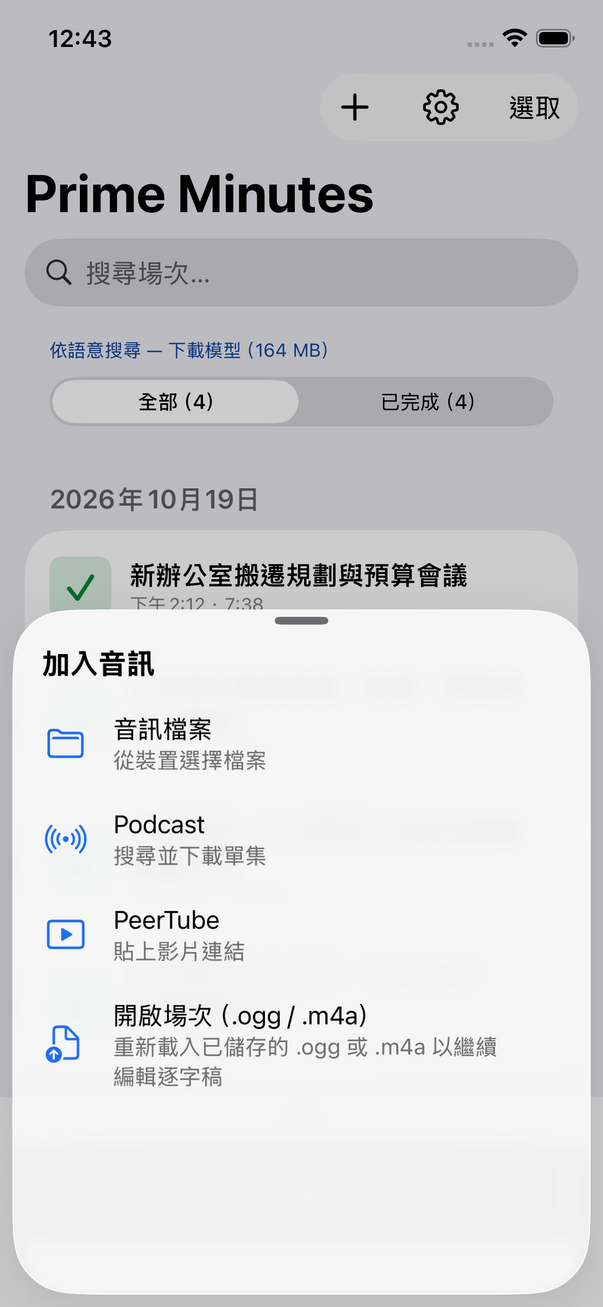
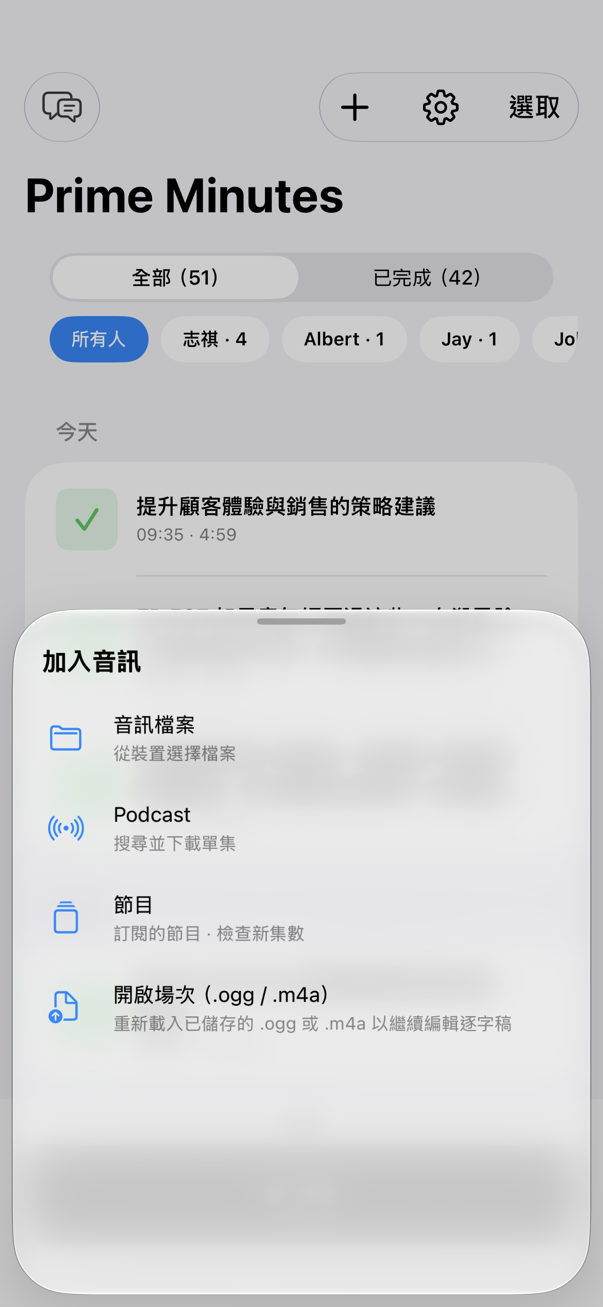
ios: remove PeerTube import; online-import notice, licenses screen, NOTICE
- PeerTube import is gone: PeerTube.swift, PeerTubeView, the Add-audio row, the build_app.sh
  entry, the strings in the three .lproj and the VOX_PEERTUBE probe. Online import is podcasts
  (and subscriptions) only, on both platforms.
- Migration: a queued download of a PeerTube video file (older version) fails for good with
  "PeerTube import is no longer supported" and can be deleted; imported sessions are untouched.
  A YouTube/PeerTube link opened in the app shows an explanation (VideoLinks + host test).
- First Podcast / Shows use shows a one-time personal-use notice.
- Settings > About > Open-source licenses (LicensesView) and NOTICE list the third-party
  components actually shipped (NOGGML build: no CrispASR/ggml/audio.cpp on iOS).
- README (responsibility, takedown via GitHub issues, licenses), USER_GUIDE, slides v2.55
  (import slide, add-source image) updated; guide 02-add reshot on the iPhone 17e.

Host tests (ios/tests/run.sh) PASS; iPhone 17e checks PASS.

diff --git a/ios/App/App.swift b/ios/App/App.swift
@@ -87,13 +87,20 @@ struct ContentView: View {
     @State private var picking = false
     @State private var showSettings = false
     @State private var showPodcast = false
-    @State private var showPeerTube = false
+    @State private var onlineAsk: (() -> Void)?
+    @State private var videoLink = false
+    @State private var showLicenses = false   // DEV: VOX_DIALOG=licenses
+    @AppStorage("online_import_notice_ack") private var onlineAck = false
     @State private var showSubs = false
     @State private var subsId: String?
     @State private var showAdd = false
     @State private var path: [Route] = []
     @AppStorage("language") private var language = "system"
     @AppStorage("theme") private var theme = "auto"
+    /// Podcast search / Shows: a one-time notice first (personal use; the right to download is the user's to have).
+    private func gateOnline(_ go: @escaping () -> Void) {
+        if onlineAck { go() } else { DispatchQueue.main.asyncAfter(deadline: .now() + 0.35) { onlineAsk = go } }   // after the Add sheet is gone
+    }
     /// A subscribed episode's item: its meeting when processed, else its queue row.
     private func openJob(_ id: UUID) {
         if let s = m.library.sessions.first(where: { $0.id == id }) { LibraryView.markSeen(s.id); path = [.session(s)] } else { path = [.job(id)] }
@@ -132,18 +139,26 @@ struct ContentView: View {
                 } else { o += "engine nil\n" }
                 o += "end " + state() + "\n" + (try? FileManager.default.contentsOfDirectory(atPath: Storage.modelsRoot.path))!.sorted().joined(separator: ",") + " nemo: " + ((try? FileManager.default.contentsOfDirectory(atPath: Storage.modelsRoot.appendingPathComponent("nemo").path)) ?? []).sorted().joined(separator: ",")
                 try? o.write(to: URL(fileURLWithPath: NSHomeDirectory() + "/Documents/asrcheck.txt"), atomically: true, encoding: .utf8)
-            } }; if Dev.env["VOX_EMBED_DL"] != nil, !EmbedHost.ready { m.downloads.downloadEmbed() }; if let sn = Dev.env["VOX_SNAP"] { Snap.schedule(sn) }; if Dev.env["VOX_EMBEDDIAG"] != nil { Task.detached { var o = ""; if let d = try? Data(contentsOf: URL(fileURLWithPath: NSHomeDirectory() + "/Documents/embed_ref.json")), let refs = try? JSONSerialization.jsonObject(with: d) as? [[String: Any]] { for r in refs { let text = r["text"] as? String ?? "", ref = (r["vec"] as? [Double] ?? []).map(Float.init), nt = r["tokens"] as? Int ?? 0; let t0 = Date(); let v = EmbedHost.use(threads: 2) { $0.embed(text) } ?? nil; let ms = Int(Date().timeIntervalSince(t0) * 1000); let tk = EmbedHost.use(threads: 2) { $0.tokens(text) } ?? -1; if let v = v, v.count == ref.count { var dd: Float = 0, na: Float = 0, nb: Float = 0; for i in v.indices { dd += v[i] * ref[i]; na += v[i] * v[i]; nb += ref[i] * ref[i] }; o += String(format: "cos %.4f |v| %.3f tokens %d/%d %d ms  %@\n", dd / (na.squareRoot() * nb.squareRoot()), na.squareRoot(), tk + 2, nt, ms, String(text.prefix(40))) } else { o += "embed nil for \(text.prefix(30))\n" } } } else { o += "no embed_ref.json\n" }; let ss = await MainActor.run { m.library.sessions }; for q in ["gold", "opening hours", "颱風季節的浪", "抓交替"] { if let qv = EmbedHost.use(threads: 2, { $0.embed(EmbedPrompts.query(q)) }) ?? nil { o += "Q \(q):"; for h in LibrarySearch.dense(Array(ss.prefix(1)), qv: qv, maxPassages: 6) { for p in h.passages { o += String(format: " [%@ %.3f @%.0f]", "\(p.kind)", p.score, p.timeSec) } }; o += "\n" } }; try? o.write(to: URL(fileURLWithPath: NSHomeDirectory() + "/Documents/embeddiag.txt"), atomically: true, encoding: .utf8) } }; if let y = Dev.env["VOX_YIELD"] { Task { try? await Task.sleep(nanoseconds: UInt64(Int(y) ?? 30) * 1_000_000_000); let before = m.runner.activeJob != nil; m.runner.yieldToSystem(); try? await Task.sleep(nanoseconds: 20_000_000_000); try? "active before=\(before) queued=\(await m.queue.count) parked=\(m.runner.parked.count) active now=\(m.runner.activeJob != nil) partial=\((await m.queue.all).first.map { Checkpoint.loadPartial($0.id) != nil } ?? false)".write(to: URL(fileURLWithPath: NSHomeDirectory() + "/Documents/yield.txt"), atomically: true, encoding: .utf8) } }; if let st = Dev.env["VOX_STOP"] { Task { try? await Task.sleep(nanoseconds: UInt64(Int(st) ?? 30) * 1_000_000_000); let before = m.runner.activeJob != nil; m.runner.stopProcessing(); try? await Task.sleep(nanoseconds: 20_000_000_000); try? "active before=\(before) parked=\(m.runner.parked.count) active now=\(m.runner.activeJob != nil) status=\(m.screen.status)".write(to: URL(fileURLWithPath: NSHomeDirectory() + "/Documents/stop.txt"), atomically: true, encoding: .utf8) } }; if Dev.env["VOX_STATUSLOG"] != nil { Task { var lastN = -1; var peakMB = 0.0; while true { NSLog("VOXSTATUS %@", m.screen.status); do { var i = task_vm_info_data_t(); var c = mach_msg_type_number_t(MemoryLayout<task_vm_info_data_t>.size / MemoryLayout<integer_t>.size); _ = withUnsafeMutablePointer(to: &i) { $0.withMemoryRebound(to: integer_t.self, capacity: Int(c)) { task_info(mach_task_self_, task_flavor_t(TASK_VM_INFO), $0, &c) } }; peakMB = max(peakMB, Double(i.phys_footprint) / 1048576); NSLog("VOXRSS %.0f peak %.0f MB kpeak %.0f resident %.0f rpeak %.0f MB", Double(i.phys_footprint) / 1048576, peakMB, Double(i.ledger_phys_footprint_peak) / 1048576, Double(i.resident_size) / 1048576, Double(i.resident_size_peak) / 1048576) }; if m.screen.lines.count != lastN { lastN = m.screen.lines.count; for l in m.screen.lines { NSLog("VOXLINE %d %.1f-%.1f %@", l.speaker, l.start, l.end, l.text) } }; try? m.screen.status.write(to: URL(fileURLWithPath: NSHomeDirectory() + "/Documents/status.txt"), atomically: true, encoding: .utf8); try? await Task.sleep(nanoseconds: 2_000_000_000) } } }; if Dev.env["VOX_ROUNDTRIP"] != nil { Task { if let s = await m.library.all().first(where: { $0.audio != nil }), let u = await SessionFile.export(s) { let r = SessionFile.read(u); m.screen.status = "rt \((try? FileManager.default.attributesOfItem(atPath: u.path)[.size]) ?? 0)B lines \(r?.utterances?.count ?? -1)/\(s.lines.count) title \(r?.title == s.title)"; m.imports.importAudio(u) } else { m.screen.status = "rt: export failed" }; try? m.screen.status.write(to: URL(fileURLWithPath: NSHomeDirectory() + "/Documents/rt.txt"), atomically: true, encoding: .utf8) } }; if Dev.env["VOX_ADD"] != nil { showAdd = true }; if Dev.env["VOX_DIALOG"] == "podcast" { showPodcast = true }; if first { DevJobs.run(m) }; m.runner.drain(); if let fs = Dev.env["VOX_IMPORT"] { for f in fs.split(separator: ",").map(String.init) { m.imports.importAudio(URL(fileURLWithPath: f.hasPrefix("/") ? f : NSHomeDirectory() + "/" + f)) } }; if let q = Dev.env["VOX_PODCAST"] { Task { if let sr = try? await Podcast.search(q).first, let ep = try? await Podcast.episodes(sr.feedUrl, limit: 3).last { m.imports.addEpisode(ep) } else { m.screen.status = "podcast: no result" } } }; if let u = Dev.env["VOX_PEERTUBE"] { Task { do { let v = try await PeerTube.resolve(u); StatusLog.add("peertube \(v.title) \(v.seconds) s \(v.fileUrl)"); m.imports.addEpisode(Episode(title: v.title, audioUrl: v.fileUrl, published: "", duration: "")) } catch { StatusLog.add("peertube failed: \(error.localizedDescription)"); m.screen.status = "peertube: \(error.localizedDescription)" } } } }
-            .sheet(isPresented: $showAdd) { AddSourceSheet(onFile: { picking = true }, onPodcast: { showPodcast = true }, onPeerTube: { showPeerTube = true }, onShows: { subsId = nil; showSubs = true }, onSession: { picking = true }) }
+            } }; if Dev.env["VOX_EMBED_DL"] != nil, !EmbedHost.ready { m.downloads.downloadEmbed() }; if let sn = Dev.env["VOX_SNAP"] { Snap.schedule(sn) }; if Dev.env["VOX_EMBEDDIAG"] != nil { Task.detached { var o = ""; if let d = try? Data(contentsOf: URL(fileURLWithPath: NSHomeDirectory() + "/Documents/embed_ref.json")), let refs = try? JSONSerialization.jsonObject(with: d) as? [[String: Any]] { for r in refs { let text = r["text"] as? String ?? "", ref = (r["vec"] as? [Double] ?? []).map(Float.init), nt = r["tokens"] as? Int ?? 0; let t0 = Date(); let v = EmbedHost.use(threads: 2) { $0.embed(text) } ?? nil; let ms = Int(Date().timeIntervalSince(t0) * 1000); let tk = EmbedHost.use(threads: 2) { $0.tokens(text) } ?? -1; if let v = v, v.count == ref.count { var dd: Float = 0, na: Float = 0, nb: Float = 0; for i in v.indices { dd += v[i] * ref[i]; na += v[i] * v[i]; nb += ref[i] * ref[i] }; o += String(format: "cos %.4f |v| %.3f tokens %d/%d %d ms  %@\n", dd / (na.squareRoot() * nb.squareRoot()), na.squareRoot(), tk + 2, nt, ms, String(text.prefix(40))) } else { o += "embed nil for \(text.prefix(30))\n" } } } else { o += "no embed_ref.json\n" }; let ss = await MainActor.run { m.library.sessions }; for q in ["gold", "opening hours", "颱風季節的浪", "抓交替"] { if let qv = EmbedHost.use(threads: 2, { $0.embed(EmbedPrompts.query(q)) }) ?? nil { o += "Q \(q):"; for h in LibrarySearch.dense(Array(ss.prefix(1)), qv: qv, maxPassages: 6) { for p in h.passages { o += String(format: " [%@ %.3f @%.0f]", "\(p.kind)", p.score, p.timeSec) } }; o += "\n" } }; try? o.write(to: URL(fileURLWithPath: NSHomeDirectory() + "/Documents/embeddiag.txt"), atomically: true, encoding: .utf8) } }; if let y = Dev.env["VOX_YIELD"] { Task { try? await Task.sleep(nanoseconds: UInt64(Int(y) ?? 30) * 1_000_000_000); let before = m.runner.activeJob != nil; m.runner.yieldToSystem(); try? await Task.sleep(nanoseconds: 20_000_000_000); try? "active before=\(before) queued=\(await m.queue.count) parked=\(m.runner.parked.count) active now=\(m.runner.activeJob != nil) partial=\((await m.queue.all).first.map { Checkpoint.loadPartial($0.id) != nil } ?? false)".write(to: URL(fileURLWithPath: NSHomeDirectory() + "/Documents/yield.txt"), atomically: true, encoding: .utf8) } }; if let st = Dev.env["VOX_STOP"] { Task { try? await Task.sleep(nanoseconds: UInt64(Int(st) ?? 30) * 1_000_000_000); let before = m.runner.activeJob != nil; m.runner.stopProcessing(); try? await Task.sleep(nanoseconds: 20_000_000_000); try? "active before=\(before) parked=\(m.runner.parked.count) active now=\(m.runner.activeJob != nil) status=\(m.screen.status)".write(to: URL(fileURLWithPath: NSHomeDirectory() + "/Documents/stop.txt"), atomically: true, encoding: .utf8) } }; if Dev.env["VOX_STATUSLOG"] != nil { Task { var lastN = -1; var peakMB = 0.0; while true { NSLog("VOXSTATUS %@", m.screen.status); do { var i = task_vm_info_data_t(); var c = mach_msg_type_number_t(MemoryLayout<task_vm_info_data_t>.size / MemoryLayout<integer_t>.size); _ = withUnsafeMutablePointer(to: &i) { $0.withMemoryRebound(to: integer_t.self, capacity: Int(c)) { task_info(mach_task_self_, task_flavor_t(TASK_VM_INFO), $0, &c) } }; peakMB = max(peakMB, Double(i.phys_footprint) / 1048576); NSLog("VOXRSS %.0f peak %.0f MB kpeak %.0f resident %.0f rpeak %.0f MB", Double(i.phys_footprint) / 1048576, peakMB, Double(i.ledger_phys_footprint_peak) / 1048576, Double(i.resident_size) / 1048576, Double(i.resident_size_peak) / 1048576) }; if m.screen.lines.count != lastN { lastN = m.screen.lines.count; for l in m.screen.lines { NSLog("VOXLINE %d %.1f-%.1f %@", l.speaker, l.start, l.end, l.text) } }; try? m.screen.status.write(to: URL(fileURLWithPath: NSHomeDirectory() + "/Documents/status.txt"), atomically: true, encoding: .utf8); try? await Task.sleep(nanoseconds: 2_000_000_000) } } }; if Dev.env["VOX_ROUNDTRIP"] != nil { Task { if let s = await m.library.all().first(where: { $0.audio != nil }), let u = await SessionFile.export(s) { let r = SessionFile.read(u); m.screen.status = "rt \((try? FileManager.default.attributesOfItem(atPath: u.path)[.size]) ?? 0)B lines \(r?.utterances?.count ?? -1)/\(s.lines.count) title \(r?.title == s.title)"; m.imports.importAudio(u) } else { m.screen.status = "rt: export failed" }; try? m.screen.status.write(to: URL(fileURLWithPath: NSHomeDirectory() + "/Documents/rt.txt"), atomically: true, encoding: .utf8) } }; if Dev.env["VOX_ADD"] != nil { showAdd = true }; if Dev.env["VOX_DIALOG"] == "podcast" { showPodcast = true }; if Dev.env["VOX_DIALOG"] == "podcast_gated" { gateOnline { showPodcast = true } }; if Dev.env["VOX_DIALOG"] == "licenses" { showLicenses = true }; if let t = Dev.env["VOX_DROP_TITLE"] { Task { for j in await m.runner.queue.all where j.title == t { m.imports.remove(j) } } }; if first { DevJobs.run(m) }; m.runner.drain(); if let fs = Dev.env["VOX_IMPORT"] { for f in fs.split(separator: ",").map(String.init) { m.imports.importAudio(URL(fileURLWithPath: f.hasPrefix("/") ? f : NSHomeDirectory() + "/" + f)) } }; if let q = Dev.env["VOX_PODCAST"] { Task { if let sr = try? await Podcast.search(q).first, let ep = try? await Podcast.episodes(sr.feedUrl, limit: 3).last { m.imports.addEpisode(ep) } else { m.screen.status = "podcast: no result" } } }; if let u = Dev.env["VOX_LEGACY_PEERTUBE"] { m.imports.addEpisode(Episode(title: "PeerTube (legacy)", audioUrl: u, published: "", duration: "")) }; if let u = Dev.env["VOX_VIDEOLINK"], VideoLinks.isVideoLink(u) { videoLink = true } }
+            .sheet(isPresented: $showAdd) { AddSourceSheet(onFile: { picking = true }, onPodcast: { gateOnline { showPodcast = true } }, onShows: { gateOnline { subsId = nil; showSubs = true } }, onSession: { picking = true }) }
+            .sheet(isPresented: $showLicenses) { NavigationStack { LicensesView() } }
             .sheet(isPresented: $showSubs) { SubscriptionsView(initialId: subsId, onOpen: { id in showSubs = false; openJob(id) }) }
             .fullScreenCover(isPresented: Binding(get: { m.capture.recording }, set: { _ in })) { CaptureView(m: m) }
-            .sheet(isPresented: $showPeerTube) { PeerTubeView { ep in m.downloads.withModels { m.imports.addEpisode(ep) } } }
             .sheet(isPresented: $showPodcast) { PodcastView(pick: { ep in m.downloads.withModels { m.imports.addEpisode(ep) } }, openShow: { id in showPodcast = false; subsId = id; Task { try? await Task.sleep(nanoseconds: 400_000_000); showSubs = true } }) }
             .onAppear { SubDev.run(m) { id in subsId = id; showSubs = true } }
             .sheet(isPresented: $showSettings) { SettingsView(m: m, language: $language, theme: $theme) { s, t in
                 // The People screen opens a meeting at the person's first line: Settings closes, the meeting opens.
                 showSettings = false; LibraryView.markSeen(s.id); m.openAt = (s.id, t); path = [.session(s)]
             } }
-            .onOpenURL { u in m.downloads.withModels { m.imports.importAudio(u) } }
+            // A YouTube / PeerTube link is no longer imported (removed in 0.55): explained, never fetched.
+            .onOpenURL { u in if !u.isFileURL && VideoLinks.isVideoLink(u.absoluteString) { videoLink = true } else { m.downloads.withModels { m.imports.importAudio(u) } } }
+            .alert(L("online_notice_title"), isPresented: Binding(get: { onlineAsk != nil }, set: { if !$0 { onlineAsk = nil } })) {
+                Button(L("online_notice_ok")) { onlineAck = true; let go = onlineAsk; onlineAsk = nil
+                    // After the alert is gone: a sheet presented while it dismisses is dropped.
+                    DispatchQueue.main.asyncAfter(deadline: .now() + 0.35) { go?() } }
+                Button(L("cancel"), role: .cancel) { onlineAsk = nil }
+            } message: { Text(L("online_notice_body")) }
+            .alert(L("link_unsupported_title"), isPresented: $videoLink) { Button(L("online_notice_ok")) {} } message: { Text(L("link_unsupported_body")) }
             .fileImporter(isPresented: $picking, allowedContentTypes: [.audio, .mpeg4Audio]) { if case .success(let u) = $0 { m.downloads.withModels { m.imports.importAudio(u) } } }
             .modifier(DownloadConsent(downloads: m.downloads))
         }

diff --git a/ios/App/Licenses.swift b/ios/App/Licenses.swift
@@ -1,0 +1,44 @@
+import SwiftUI
+
+/// The third-party components inside the iOS app, with their licenses: Settings › About › Open-source licenses.
+/// Kept in step with NOTICE at the repository root (its iOS section): a dependency added or removed in
+/// ios/native, the model cards or the speaker cards changes both.
+enum OpenSourceLicenses {
+    struct Component: Hashable { let name: String; let license: String; let url: String }
+    struct Group: Hashable { let title: String; let items: [Component] }
+    static let groups: [Group] = [
+        Group(title: "Speech, speakers and AI notes (native)", items: [
+            Component(name: "nemo-x-asr-diarizer", license: "Apache-2.0", url: "https://github.com/vieenrose/nemo-x-asr-diarizer.cpp"),
+            Component(name: "LiteRT", license: "Apache-2.0", url: "https://github.com/google-ai-edge/LiteRT"),
+            Component(name: "LiteRT-LM (mobile fused attention fork)", license: "Apache-2.0", url: "https://github.com/vieenrose/LiteRT-LM"),
+            Component(name: "SentencePiece", license: "Apache-2.0", url: "https://github.com/google/sentencepiece"),
+        ]),
+        Group(title: "Models and data (downloaded or bundled)", items: [
+            Component(name: "X-ASR zh-en speech model", license: "Apache-2.0", url: "https://huggingface.co/Luigi/primeminutes-nemo-litert"),
+            Component(name: "Nemotron-3 Diarization model", license: "OpenMDW-1.1", url: "https://huggingface.co/Luigi/primeminutes-nemo-litert"),
+            Component(name: "Gemma-4 E2B / E4B meeting models", license: "Apache-2.0", url: "https://huggingface.co/Luigi/gemma-4-E4B-meeting-agent-zh-LiteRT"),
+            Component(name: "EmbeddingGemma 2 270M", license: "Gemma Terms of Use", url: "https://huggingface.co/Luigi/primeminutes-embed-litert"),
+            Component(name: "CAM++ zh-en (3D-Speaker)", license: "Apache-2.0", url: "https://huggingface.co/Luigi/primeminutes-speaker-litert"),
+            Component(name: "OpenCC dictionaries", license: "Apache-2.0", url: "https://github.com/BYVoid/OpenCC"),
+        ]),
+    ]
+}
+
+struct LicensesView: View {
+    @Environment(\.openURL) private var openURL
+    var body: some View {
+        List {
+            ForEach(OpenSourceLicenses.groups, id: \.self) { g in
+                Section(g.title) {
+                    ForEach(g.items, id: \.self) { c in
+                        Button { if let u = URL(string: c.url) { openURL(u) } } label: {
+                            HStack { Text(c.name).foregroundStyle(.primary); Spacer(); Text(c.license).font(.footnote).foregroundStyle(.secondary) }
+                        }
+                    }
+                }
+            }
+            Section { Text("Prime Minutes · GPL-3.0-or-later").font(.footnote).foregroundStyle(.secondary) }
+        }
+        .navigationTitle(L("about_licenses"))
+    }
+}

diff --git a/slides/PrimeMinutes-zh-TW.html b/slides/PrimeMinutes-zh-TW.html
@@ -110,7 +110,7 @@ table.t.rowlab tr:nth-child(even) td:first-child { background:#e8eef4; }
     </div>
   </div>
   <p style="margin-top:14px; color:#93a1af; font-size:.8em">標誌：墨色的紀錄頁，一條綠色關鍵線釘住整場的重點</p>
-  <p style="margin-top:6px; color:#93a1af; font-size:.8em">簡報 v2.54 · Android v0.53.18 · iOS 0.53.1 build 13 · 版次 2026-10-29</p>
+  <p style="margin-top:6px; color:#93a1af; font-size:.8em">簡報 v2.55 · Android v0.53.18 · iOS 0.53.1 build 13 · 版次 2026-10-29</p>
 </section>
 
 <!-- 2 問題 -->
@@ -224,12 +224,13 @@ table.t.rowlab tr:nth-child(even) td:first-child { background:#e8eef4; }
 
 <!-- 10 匯入 -->
 <section class="slide">
-  <div class="kicker">不只錄音</div><h2>匯入音訊檔 · Podcast · YouTube · PeerTube</h2>
+  <div class="kicker">不只錄音</div><h2>匯入音訊檔 · Podcast</h2>
   <div class="cols">
-    <div class="col"><div class="shot"><img src="img/07-add-source.png"></div><div class="cap">首頁「＋」：檔案 / Podcast / 影音連結</div></div>
+    <div class="col"><div class="shot"><img src="img/07-add-source.png"></div><div class="cap">首頁「＋」：檔案 / Podcast / 節目</div></div>
     <div class="col"><div class="shot"><img src="img/08-podcast.png"></div><div class="cap">Podcast 單集匯入後：邊轉錄邊出逐字稿，語者即時分開</div></div>
     <div class="col"><ul class="big" style="font-size:.9em;gap:.5em">
-      <li>手機裡的音訊檔（mp3、wav、m4a……）直接匯入；YouTube、PeerTube 貼上連結就行。</li>
+      <li>手機裡的音訊檔（mp3、wav、m4a……）直接匯入；Podcast 搜尋節目、挑一集就好，也能訂閱。</li>
+      <li>線上內容僅供個人使用，請先確認你有權下載和轉錄。</li>
       <li>匯入的內容跟自己錄的一樣：逐字稿、筆記、摘要、搜尋、提問<b>全部都有</b>。</li>
       <li>下載可以<b>暫停再繼續</b>，網路斷了也不會白費。</li>
     </ul></div>
@@ -337,7 +338,7 @@ table.t.rowlab tr:nth-child(even) td:first-child { background:#e8eef4; }
     <span class="pill">iOS TestFlight 公開測試</span>
     <span class="pill">github.com/vieenrose/PrimeMinutes</span>
   </div>
-  <p style="margin-top:14px; color:#93a1af; font-size:.8em">目前 Android v0.53.18 · iOS 0.53.1 TestFlight build 13 · 簡報 v2.54</p>
+  <p style="margin-top:14px; color:#93a1af; font-size:.8em">目前 Android v0.53.18 · iOS 0.53.1 TestFlight build 13 · 簡報 v2.55</p>
   <p style="margin-top:6px; color:#93a1af; font-size:.8em">小提醒：開會時把手機放桌子中央、靠近講話的人，分人分得最準；答案都附出處，重要的事點回原話確認一下。</p>
   <p class="lede" style="margin-top:26px">謝謝！示範與 Q&amp;A 時間。</p>
 </section>

diff --git a/ios/App/VideoLinks.swift b/ios/App/VideoLinks.swift
@@ -1,0 +1,30 @@
+import Foundation
+
+/// YouTube and PeerTube links (Android online/VideoLinks). Their import was removed (0.55): a link that reaches the
+/// app is recognised only to explain that it is not imported, never fetched.
+enum VideoLinks {
+    /// True when `text` holds a YouTube link, or a PeerTube video page (`/w/<id>`, `/videos/watch/<id>`, `/videos/embed/<id>`).
+    static func isVideoLink(_ text: String?) -> Bool {
+        guard let text, !text.isEmpty else { return false }
+        return text.split(whereSeparator: { $0.isWhitespace }).contains { classify(String($0)) }
+    }
+
+    private static func classify(_ raw: String) -> Bool {
+        var t = raw.trimmingCharacters(in: CharacterSet(charactersIn: ".,)\"'"))
+        if !t.contains("://") { t = "https://" + t }
+        guard let u = URL(string: t), let scheme = u.scheme, ["http", "https"].contains(scheme), let host = u.host?.lowercased() else { return false }
+        if host == "youtu.be" || host == "youtube.com" || host.hasSuffix(".youtube.com") || host == "youtube-nocookie.com" || host.hasSuffix(".youtube-nocookie.com") { return true }
+        let parts = u.path.split(separator: "/").map(String.init)
+        guard let i = parts.firstIndex(where: { $0 == "w" || $0 == "watch" || $0 == "embed" }), i + 1 < parts.count,
+              i == 0 || parts[i - 1] == "videos" else { return false }
+        return parts[i + 1].range(of: "^[A-Za-z0-9-]{8,40}$", options: .regularExpression) != nil
+    }
+
+    /// A queued download from an older version that came from PeerTube: its URL is a PeerTube instance's video file
+    /// (`/static/web-videos/`, `/static/webseed/`, `/static/streaming-playlists/`, `/download/videos/`). Podcast
+    /// enclosures do not use these paths. Such an item fails with an explanation instead of downloading.
+    static func isPeerTubeFile(_ url: String) -> Bool {
+        guard let p = URL(string: url)?.path else { return false }
+        return ["/static/web-videos/", "/static/webseed/", "/static/streaming-playlists/", "/download/videos/", "/download/web-videos/"].contains { p.hasPrefix($0) }
+    }
+}

diff --git a/ios/App/PodcastView.swift b/ios/App/PodcastView.swift
@@ -82,40 +82,3 @@ struct PodcastView: View {
         Task { defer { busy = false }; do { episodes = try await Podcast.episodes(s.feedUrl) } catch { self.error = L("status_error", error.localizedDescription) } }
     }
 }
-
-/// A PeerTube video link (any instance): resolved to its smallest file, then queued like a podcast episode.
-struct PeerTubeView: View {
-    let pick: (Episode) -> Void
-    @Environment(\.dismiss) private var dismiss
-    @State private var link = ""
-    @State private var busy = false
-    @State private var error: String?
-    var body: some View {
-        NavigationStack {
-            Form {
-                TextField(L("source_peertube_desc"), text: $link).keyboardType(.URL).textInputAutocapitalization(.never).autocorrectionDisabled()
-                    .textContentType(.URL).submitLabel(.go)   // the key shows Go and offers the user's saved links
-                    .onSubmit { go() }
-                if let error { Text(error).foregroundStyle(.red) }
-                if busy { HStack(spacing: 8) { ProgressView(); Text(L("dl_searching")).font(.footnote).foregroundStyle(.secondary) } }
-            }
-            .navigationTitle(L("source_peertube"))
-            .toolbar {
-                ToolbarItem(placement: .confirmationAction) { Button(L("peertube_add")) { go() }.disabled(busy || link.trimmingCharacters(in: .whitespaces).isEmpty) }
-                ToolbarItem(placement: .cancellationAction) { Button(L("done")) { dismiss() } }
-            }
-        }
-    }
-    private func go() {
-        guard !busy else { return }
-        busy = true; error = nil
-        Task {
-            defer { busy = false }
-            do {
-                let v = try await PeerTube.resolve(link)
-                pick(Episode(title: v.title, audioUrl: v.fileUrl, published: "", duration: Podcast.formatDuration(String(v.seconds))))
-                dismiss()
-            } catch { self.error = error.localizedDescription }
-        }
-    }
-}

diff --git a/ios/tests/VideoLinksTests.swift b/ios/tests/VideoLinksTests.swift
@@ -1,0 +1,18 @@
+import Foundation
+
+// ios/tests/run.sh: VideoLinks (YouTube / PeerTube links are recognised, never imported).
+@main struct VideoLinksTests {
+    static func check(_ c: Bool, _ m: String) { if !c { print("FAIL: \(m)"); exit(1) } }
+    static func main() {
+        check(VideoLinks.isVideoLink("https://www.youtube.com/watch?v=jNQXAC9IVRw"), "youtube watch")
+        check(VideoLinks.isVideoLink("see https://youtu.be/jNQXAC9IVRw"), "youtu.be in text")
+        check(VideoLinks.isVideoLink("https://framatube.org/w/9c9de5e8-0a1e-484a-b099-e80766180a6d"), "peertube /w/")
+        check(VideoLinks.isVideoLink("https://peertube.example/videos/watch/9c9de5e8-0a1e-484a"), "peertube /videos/watch/")
+        check(!VideoLinks.isVideoLink(nil) && !VideoLinks.isVideoLink(""), "empty")
+        check(!VideoLinks.isVideoLink("https://feeds.example.com/podcast.xml"), "feed")
+        check(!VideoLinks.isVideoLink("https://example.com/w/x"), "short id")
+        check(VideoLinks.isPeerTubeFile("https://framatube.org/static/web-videos/abc-240.mp4"), "peertube file")
+        check(!VideoLinks.isPeerTubeFile("https://cdn.example.com/podcast/ep1.mp3"), "podcast file")
+        print("VideoLinks: OK")
+    }
+}

diff --git a/ios/App/LibraryView.swift b/ios/App/LibraryView.swift
@@ -224,11 +224,10 @@ struct LibraryView: View {
     }
 }
 
-/// "Add audio" bottom sheet (Android AddSourceSheet, without the YouTube row: not offered on iOS).
+/// "Add audio" bottom sheet (Android AddSourceSheet: file, podcast, shows, session).
 struct AddSourceSheet: View {
     let onFile: () -> Void
     let onPodcast: () -> Void
-    let onPeerTube: () -> Void
     var onShows: () -> Void = {}
     let onSession: () -> Void
     @Environment(\.dismiss) private var dismiss
@@ -249,7 +248,6 @@ struct AddSourceSheet: View {
             Text(L("add_audio")).font(.title3.bold()).padding(.bottom, 8)
             row("folder", L("source_audio_file"), L("source_audio_file_desc"), onFile)
             row("dot.radiowaves.left.and.right", L("source_podcast"), L("source_podcast_desc"), onPodcast)
-            row("play.rectangle", L("source_peertube"), L("source_peertube_desc"), onPeerTube)
             row("square.stack", L("sub_source"), L("sub_source_desc"), onShows)
             row("doc.badge.arrow.up", L("source_session"), L("source_session_desc"), onSession)
             Spacer(minLength: 0)

diff --git a/ios/App/Imports.swift b/ios/App/Imports.swift
@@ -76,6 +76,13 @@ import AVFoundation
     }
     private func work() async {
         while let j = await runner.queue.all.first(where: { $0.download != nil && $0.download?.error == nil }), let d = j.download {
+            // A PeerTube video queued by an older version: PeerTube import was removed (0.55). It fails for good with
+            // the reason on its row (Delete removes it); nothing is fetched.
+            if VideoLinks.isPeerTubeFile(d.url) {
+                var now = j; now.download?.error = L("import_video_unsupported")
+                StatusLog.add("podcast item \(j.id) failed: PeerTube import removed")
+                await runner.queue.update(now); await runner.syncQueue(); continue
+            }
             dlId = j.id; dlBytes = nil; dlPaused = false
             let ep = Episode(title: j.title ?? "", audioUrl: d.url, published: "", duration: "")
             let t = Task<Void, Error> {

diff --git a/ios/App/SettingsView.swift b/ios/App/SettingsView.swift
@@ -132,9 +132,7 @@ struct SettingsView: View {
                 Section(L("settings_about")) {
                     HStack { Text("Prime Minutes"); Spacer(); Text(Bundle.main.object(forInfoDictionaryKey: "CFBundleShortVersionString") as? String ?? "").foregroundStyle(.secondary) }
                     Text(L("about_license"))
-                    DisclosureGroup(L("about_components")) {
-                        ForEach(["lic_nemo", "lic_crispasr", "lic_audiocpp", "lic_ggml", "lic_xasr", "lic_nemotron", "lic_opencc"], id: \.self) { Text(L($0)).font(.footnote) }
-                    }
+                    NavigationLink { LicensesView() } label: { VStack(alignment: .leading) { Text(L("about_licenses")); Vox.micro(L("about_licenses_desc")) } }
                 }
             }
             // DEV (guide shot 03b): VOX_SETSCROLL scrolls to the AI notes model picker.

diff --git a/docs/USER_GUIDE.md b/docs/USER_GUIDE.md
@@ -6,7 +6,7 @@
 - **測試地圖**：每一節最後的表格列出該畫面上的每個操作（節點）、進入方式、預期結果與驗證狀態。
 
 驗證欄：✅ 手動＝在 iPhone 14 Pro Max 上實際操作確認；⬜＝尚未在實機驗證（已編譯）。截圖取自 iPhone 14 Pro Max（淺色主題、繁體中文介面、中文示範會議）；少數較早的截圖取自 iPhone 17 Pro 模擬器（iOS 26）。
-與 Android 的差異：沒有 YouTube（PeerTube 可用）、App 內更新、NPU 選項與中斷復原對話框（佇列會自動接續）。
+與 Android 的差異：沒有 App 內更新、NPU 選項與中斷復原對話框（佇列會自動接續）。
 
 畫面結構：
 
@@ -122,7 +122,8 @@ flowchart TD
 |---|---|---|
 | 音訊檔案 | 「檔案」挑選器；複製時顯示「正在匯入分享的音訊…」，完成後排入佇列；失敗時顯示「匯入失敗」 | ✅ 手動 |
 | Podcast | 搜尋節目 → 選集：首頁立刻出現這一集（標題即單集名稱），標示下載進度；下載完成後排入佇列處理。可連續選多集，依序下載。切到其他 App 或斷線時暫停、回到 App 後接續；App 被終止後重新開啟也從已下載的部分接續；失敗時該列顯示原因與「重試」 | ✅ 手動（iPhone 14 Pro Max：下載中背景化 → 已暫停 → 回到 App 接續；終止後重開從 .part 接續；刪除下載中的一集會一併刪除 .part。失敗與「重試」未實機確認） |
-| PeerTube | ＋ → PeerTube → 貼上任一站台的影片連結（`/w/…`、`/videos/watch/…`） | 以該站台的公開 API 取得最小的檔案（有純音訊檔就用它），像 Podcast 單集一樣下載後排入佇列處理；直播無法匯入，會顯示原因 | ✅ 手動（iPhone 14 Pro Max：英文與法文影片下載、轉錄與筆記；法文因語言模型不支援，逐字稿無法使用） |
+| YouTube／PeerTube 連結 | 不再匯入：若有 App 把這類連結交給 Prime Minutes，顯示「不支援影片連結」說明。舊版排入但尚未下載的 PeerTube 影片標示「已不再支援匯入 PeerTube」，可刪除；已轉錄的場次不受影響 | ✅ 手動 |
+| 第一次線上匯入 | 第一次按 ＋ → Podcast 或 節目：先顯示「匯入前請留意」（僅供個人使用、須自行確認有權下載與轉錄、遵守發布者條款）；按「我了解」後不再出現 | ✅ 手動 |
 | 開啟場次 | 選 Prime Minutes 場次 `.m4a`（Android 匯出的也可以）：直接還原逐字稿、語者與摘要，不重新轉錄 | ✅ 手動 |
 | 從其他 App 分享 | 分享音訊到 Prime Minutes | 同「音訊檔案」 | ⬜ |
 
@@ -252,7 +253,7 @@ flowchart TD
 | 向會議提問（預設開啟） | 首頁搜尋框右側出現「提問」（第 1a 節）；需要 AI 筆記模型與搜尋模型 | ✅ 手動 |
 | 儲存空間：下載搜尋模型／為舊會議建立索引 | 未下載時顯示「下載搜尋模型（約 160 MB）」；下載後顯示待建立索引的會議數與「為舊會議建立索引」，全部完成時顯示「所有會議都已建立搜尋索引。」 | ⬜ |
 | 儲存空間 | 列出每個模型（含編譯快取大小），可刪除 | ✅ 手動 |
-| 關於 | 版本、元件與授權 | ⬜ |
+| 關於 | 版本；「開放原始碼授權」列出 App 內含的第三方元件與授權（與 NOTICE 相同），點一列開啟該專案 | ✅ 手動 |
 
 ## 9. 說話者名錄
 
@@ -313,7 +314,7 @@ iPhone 17e，E4B 行動版 v2。搜尋在輸入時先比對關鍵字，一兩秒
 
 - 僅以 CPU 推論（Metal GPU 在 iPhone 上沒有明顯加速）。
 - 沒有 App 內更新（由 App Store／TestFlight 負責），也沒有 Android 的電池最佳化設定。iOS 26 以上離開 App 後佇列仍在背景繼續處理（系統顯示進度）；較舊版本由 `BGProcessingTask` 或下次啟動接續。
-- 不提供 YouTube 匯入（App Store 規範 5.2.3 不允許未經授權下載 YouTube 內容）；PeerTube 影片連結可匯入。
+- 兩個平台都只匯入 Podcast；YouTube 與 PeerTube 影片連結都不匯入。
 - 中斷的處理不會跳出詢問：佇列在下次啟動時自動從檢查點接續；錄音開始前就排入佇列，App 被終止也保留音訊。
 - 下載在切換到其他 App 或鎖定螢幕時暫停，回到 App 且有網路時從中斷處接續。
 

diff --git a/README.md b/README.md
@@ -36,7 +36,7 @@
 - **搜尋與提問**：依語意搜尋整個會議庫；向會議提問，回答附出處。
 - **說話者名錄**：名字跨會議共用；「辨識聲音」可在之後的會議建議名字（選用）。
 - **編輯**：修改文字、改派或合併語者、修正換人位置，可復原。
-- **匯入與匯出**：匯入音訊檔、Podcast、PeerTube；匯出 PDF、Markdown、純文字、字幕，或寄給與會者。
+- **匯入與匯出**：匯入音訊檔、Podcast（單集或訂閱節目）；匯出 PDF、Markdown、純文字、字幕，或寄給與會者。
 
 | 錄音 | AI 筆記 | 摘要 | 逐字稿 |
 |:---:|:---:|:---:|:---:|
@@ -54,9 +54,15 @@
 ## 隱私
 
 - 音訊、逐字稿、筆記與聲音資料只存在你的手機上，所有模型都在手機 CPU 上執行。
-- 只有下載模型、Podcast 與 PeerTube 會連網。
+- 只有下載模型與 Podcast 會連網。
 - 「辨識聲音」預設關閉，聲音資料不會匯出或備份，可隨時刪除。為他人命名前請先徵得同意。
 - 寄給與會者只是開啟你的郵件 App，App 本身不寄信。
+
+## 使用責任
+
+- 你匯入、轉錄或分享的內容由你自己負責。Podcast 等線上內容僅供個人使用，請先確認你有權下載並轉錄，並遵守發布者的條款。
+- 來自線上來源的場次，「分享會議」預設只分享逐字稿與摘要，不附音訊。
+- 若你認為本專案的內容侵害你的權利，或要求移除，請到 [GitHub Issues](https://github.com/vieenrose/PrimeMinutes/issues) 聯絡我們。
 
 ## 需求與模型
 
@@ -105,3 +111,13 @@ App 以 [GPL-3.0-or-later](https://github.com/vieenrose/PrimeMinutes/blob/androi
 | 示範會議音訊（VibeVoice-1.5B 合成） | MIT | [docs/demo（android 分支）](https://github.com/vieenrose/PrimeMinutes/tree/android/docs/demo) |
 
 推論引擎：[LiteRT](https://github.com/google-ai-edge/LiteRT)（[自訂 LiteRT-LM](https://github.com/vieenrose/LiteRT-LM/tree/mobile-fused-attention)）。評測資料集（AISHELL-4、AMI）見 [Android 版 README](https://github.com/vieenrose/PrimeMinutes/blob/android/README.md#授權與致謝)。
+
+App 內含的第三方元件：
+
+| 元件 | 授權 |
+|---|---|
+| nemo-x-asr-diarizer | Apache-2.0 |
+| LiteRT、LiteRT-LM、SentencePiece | Apache-2.0 |
+| OpenCC 詞典 | Apache-2.0 |
+
+完整清單見 [NOTICE](NOTICE)，App 內在「設定 › 關於 › 開放原始碼授權」。
